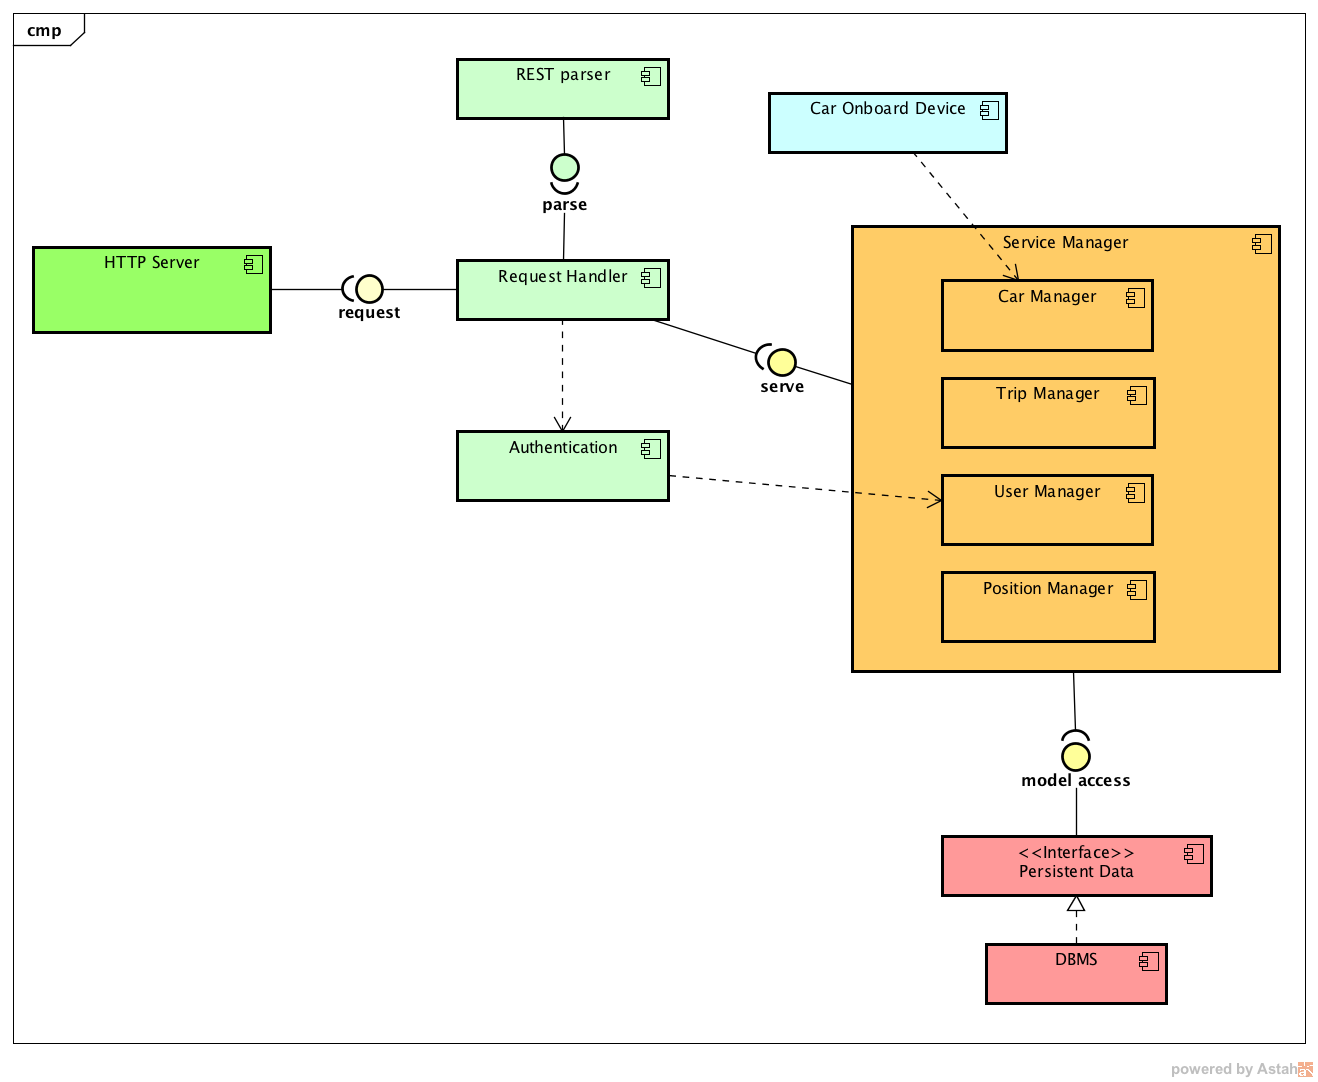
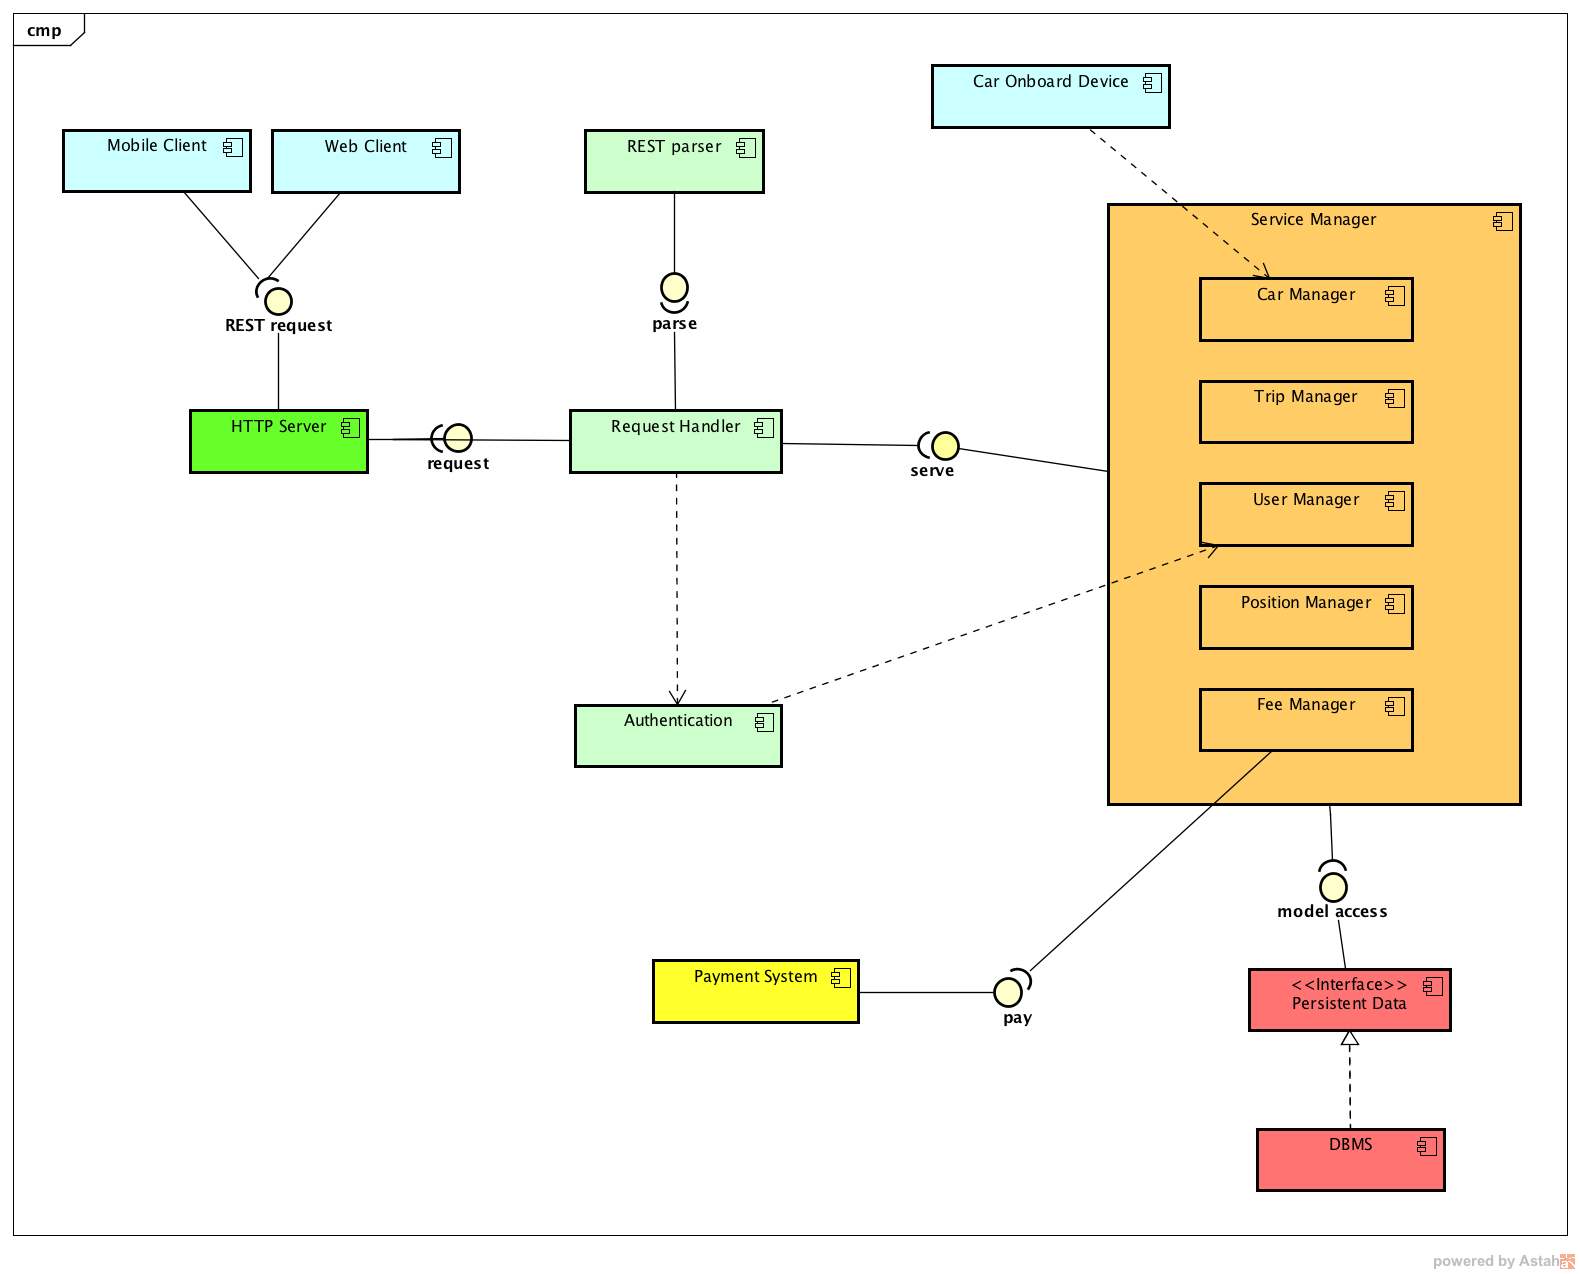
small fix

diff --git a/DD/Architectural_Design.tex b/DD/Architectural_Design.tex
@@ -7,11 +7,11 @@ In this section is provided a complete overview of all the system components, fr
 
 \begin{itemize}
 \item{\textbf{Database:}} the data layer of the service. All the persistent data will be stored in this layer.
-\item{\textbf{Application Server:}} this component will manage the applicative logic.
-\item{\textbf{Web Server:}} this layer is the interface with the world. It will manage the requests from the users and the website.
+\item{\textbf{Application Server:}} this component will manage the Business logic.
+\item{\textbf{HTTP Server:}} this layer is the interface with the world. It will manage the requests from the users and the website.
 \item{\textbf{Mobile Application Interface:}} this is the interface between the Mobile User and the system. The user will use it to send requests to the web Server and see the results sent back through his mobile device. 
 \item{\textbf{Car OnBoard Device:}} this is the module mounted on the car. It will communicate with the server and with the car ECU.
-\item{\textbf{Web Site Interface:}} this is the interface between the Web User and the system.The user will use it to send requests to the web Server and see the results sent back through the web site. 
+\item{\textbf{Web Site Interface:}} this is the interface between the Web User and the system.The user will use it to send requests to the Web Server to get static contents and send requests to the Application Server to use the service.
 \end{itemize}
 
 	\begin{figure}[H]	
@@ -45,10 +45,9 @@ In the Backend there all those component that aren't used directly by the user, 
 \item Fee Manager: This component is responsible for the calculation and the application of discounts on the fee of the travels has the task of charging the user. For these reason it is interfaced with an external payment system. \todo{Forse dobbiamo decidere un sistema di pagamento}
 \end{itemize}
 
-
-	\begin{figure}[H]	
+\begin{figure}[H]	
 	\centering
-	\includegraphics[width=\textwidth]{img/Component_Diagram}
+	\includegraphics[width=\textwidth]{img/backend_component_diagram}
 	\caption{Component Diagram}
 \end{figure}
 
@@ -71,11 +70,6 @@ Using those component the Service Manager can access the model, manage the reque
 
 The system status are represented through various \textbf{Java Beans} object that stay alive for all the time needed for the request processing.
 
-	\begin{figure}[H]	
-	\centering
-	\includegraphics[width=\textwidth]{img/backend_component_diagram}
-	\caption{Back-End Component Diagram}
-\end{figure}
 
 When a request is received all the element from the model needed for the processing are loaded from the persistent data storage through the \textbf{Persistent Data interface}. The abstraction exposed by the Persistent Data interface allow to adopt different data storage solution in a transparent way to the various component that are using it. All the persistent data are stored through a distributed database that can optimize data access.
 
@@ -84,6 +78,13 @@ The \textbf{Position Manager} implements the logic for the manage of the positio
 The \textbf{Car Manager} manage the car status and if a request is legit send a request to the specific On Board device to unlock the car.
 
 \todo{Trip e User}
+
+
+\begin{figure}[H]	
+	\centering
+	\includegraphics[width=\textwidth]{img/deployment_diagram}
+	\caption{Deployment Diagram}
+\end{figure}
 
 \newpage
 
@@ -137,7 +138,7 @@ We realized a 4-tiered architecture. In particular, the data layer, the presenta
 \begin{itemize}
 \item {\textbf{Security:}} Is possible to setup a DMZ for the webserver and filter malicious requests before they reach the application server.
 \item {\textbf{Scalability:}} Because of the separation of the layers, developers can modify existing functions or introduce new ones in any level (presentation, logic or data), leaving the other layers untouched.
-\item {\textbf{Performance: The webserver do a massive use of cache and load balancer to serve only static content to minimize resource and traffic}}
+\item {\textbf{Performance:} The webserver do a massive use of cache and load balancer to serve only static content to minimize resource and traffic}
 \item {\textbf{Reliability:}} \todo{se introduciamo ridondanza con più di un server, possiamo dire che aumentano reliability}
 \item {\textbf{Availability:}}
 \end{itemize}
@@ -147,7 +148,7 @@ We realized a 4-tiered architecture. In particular, the data layer, the presenta
 \subsubsection{Patterns}
 
 \begin{itemize}
-\item {\textbf{Client-Server:}} According to this pattern, in the system there should be 2 entities: a Client, that sends requests, and a Server, that elaborates requests and sends back results to the client. In our architecture there 3 Clients: the Mobile Client, the Web Client and the Driver Client. These all three  clients send requests to the Web Server, that takes care of forward it to the Request Handler and send back and show to the clients the results.
+\item {\textbf{Client-Server:}} According to this pattern, in the system there should be 2 entities: a Client, that sends requests, and a Server, that elaborates requests and sends back results to the client. In our architecture there 3 Clients: the Mobile Client, the Web Client and the Driver Client. These all three  clients send requests to the \st{Web Server}HTTP server on the Application server \todo{il webserver fa serve solo contenuti statici in questo modo l'application server se ne fotte se chi gli manda la richiesta è un app o un sito}, that takes care of forward it to the Request Handler and send back and show to the clients the results.
 
 
 \item{\textbf{Model-View-Controller:}} In the MVC pattern there are 3 entities: The Model, that contains methods to access the data, the View, that shows data to the user and allow him to perform actions, and the Controller, that elaborates the commands sended by the view manipulating and modifying  the data of the model.

diff --git a/DD/Introduction.tex b/DD/Introduction.tex
@@ -14,7 +14,7 @@ The document describe the high level components and architecture, sub systems, i
 	\item \textbf{JSON:} JavaScript Object Notation, is serialization of a JavaScript data object.
 \end{itemize}
 \subsection{Reference Documents}
-
+\todo[inline]{Reference Documents}
 \subsection{Document Structure }
 In the first part of the document there is a detailed description of the architecture designed for PowerEnjoy service from the logical and physical prospect. All the subsection are a different point of view of the system.
 In the second part of the document the focus is on the explanation of some of the algorithms used on the service. In the last section there is a Requirements Traceability that link this document to all the RASD requirements.
